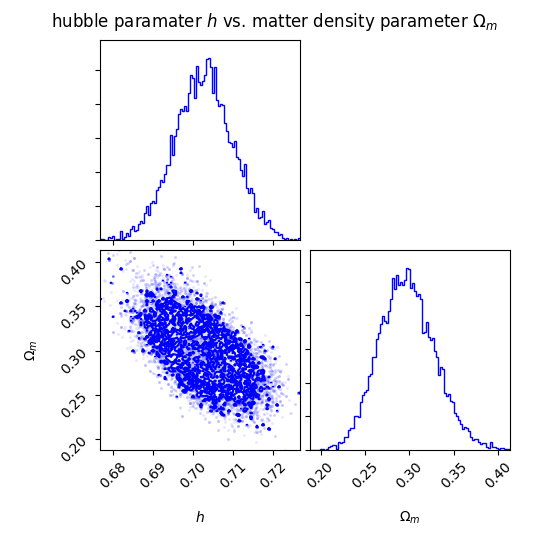
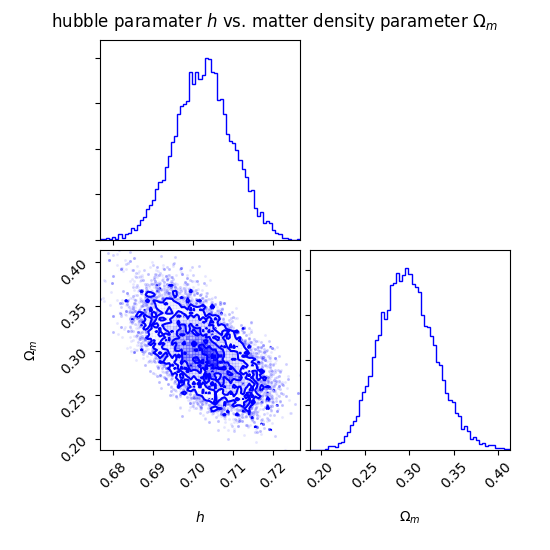
added corner plot

diff --git a/plot/snplot.py b/plot/snplot.py
@@ -30,6 +30,6 @@ plt.savefig('hist_&_scatter.png')
 
 a=[]
 a = np.c_[h,omega_m]
-fig = corner.corner(a,bins=100,color='b',weights = -logL,labels = ['$h$','$\Omega_m$'])
+fig = corner.corner(a,bins=65,color='b',weights = -logL,labels = ['$h$','$\Omega_m$'])
 fig.suptitle("hubble paramater $h$ vs. matter density parameter $\Omega_m$ ")
 fig.savefig('corner_plot.png')
